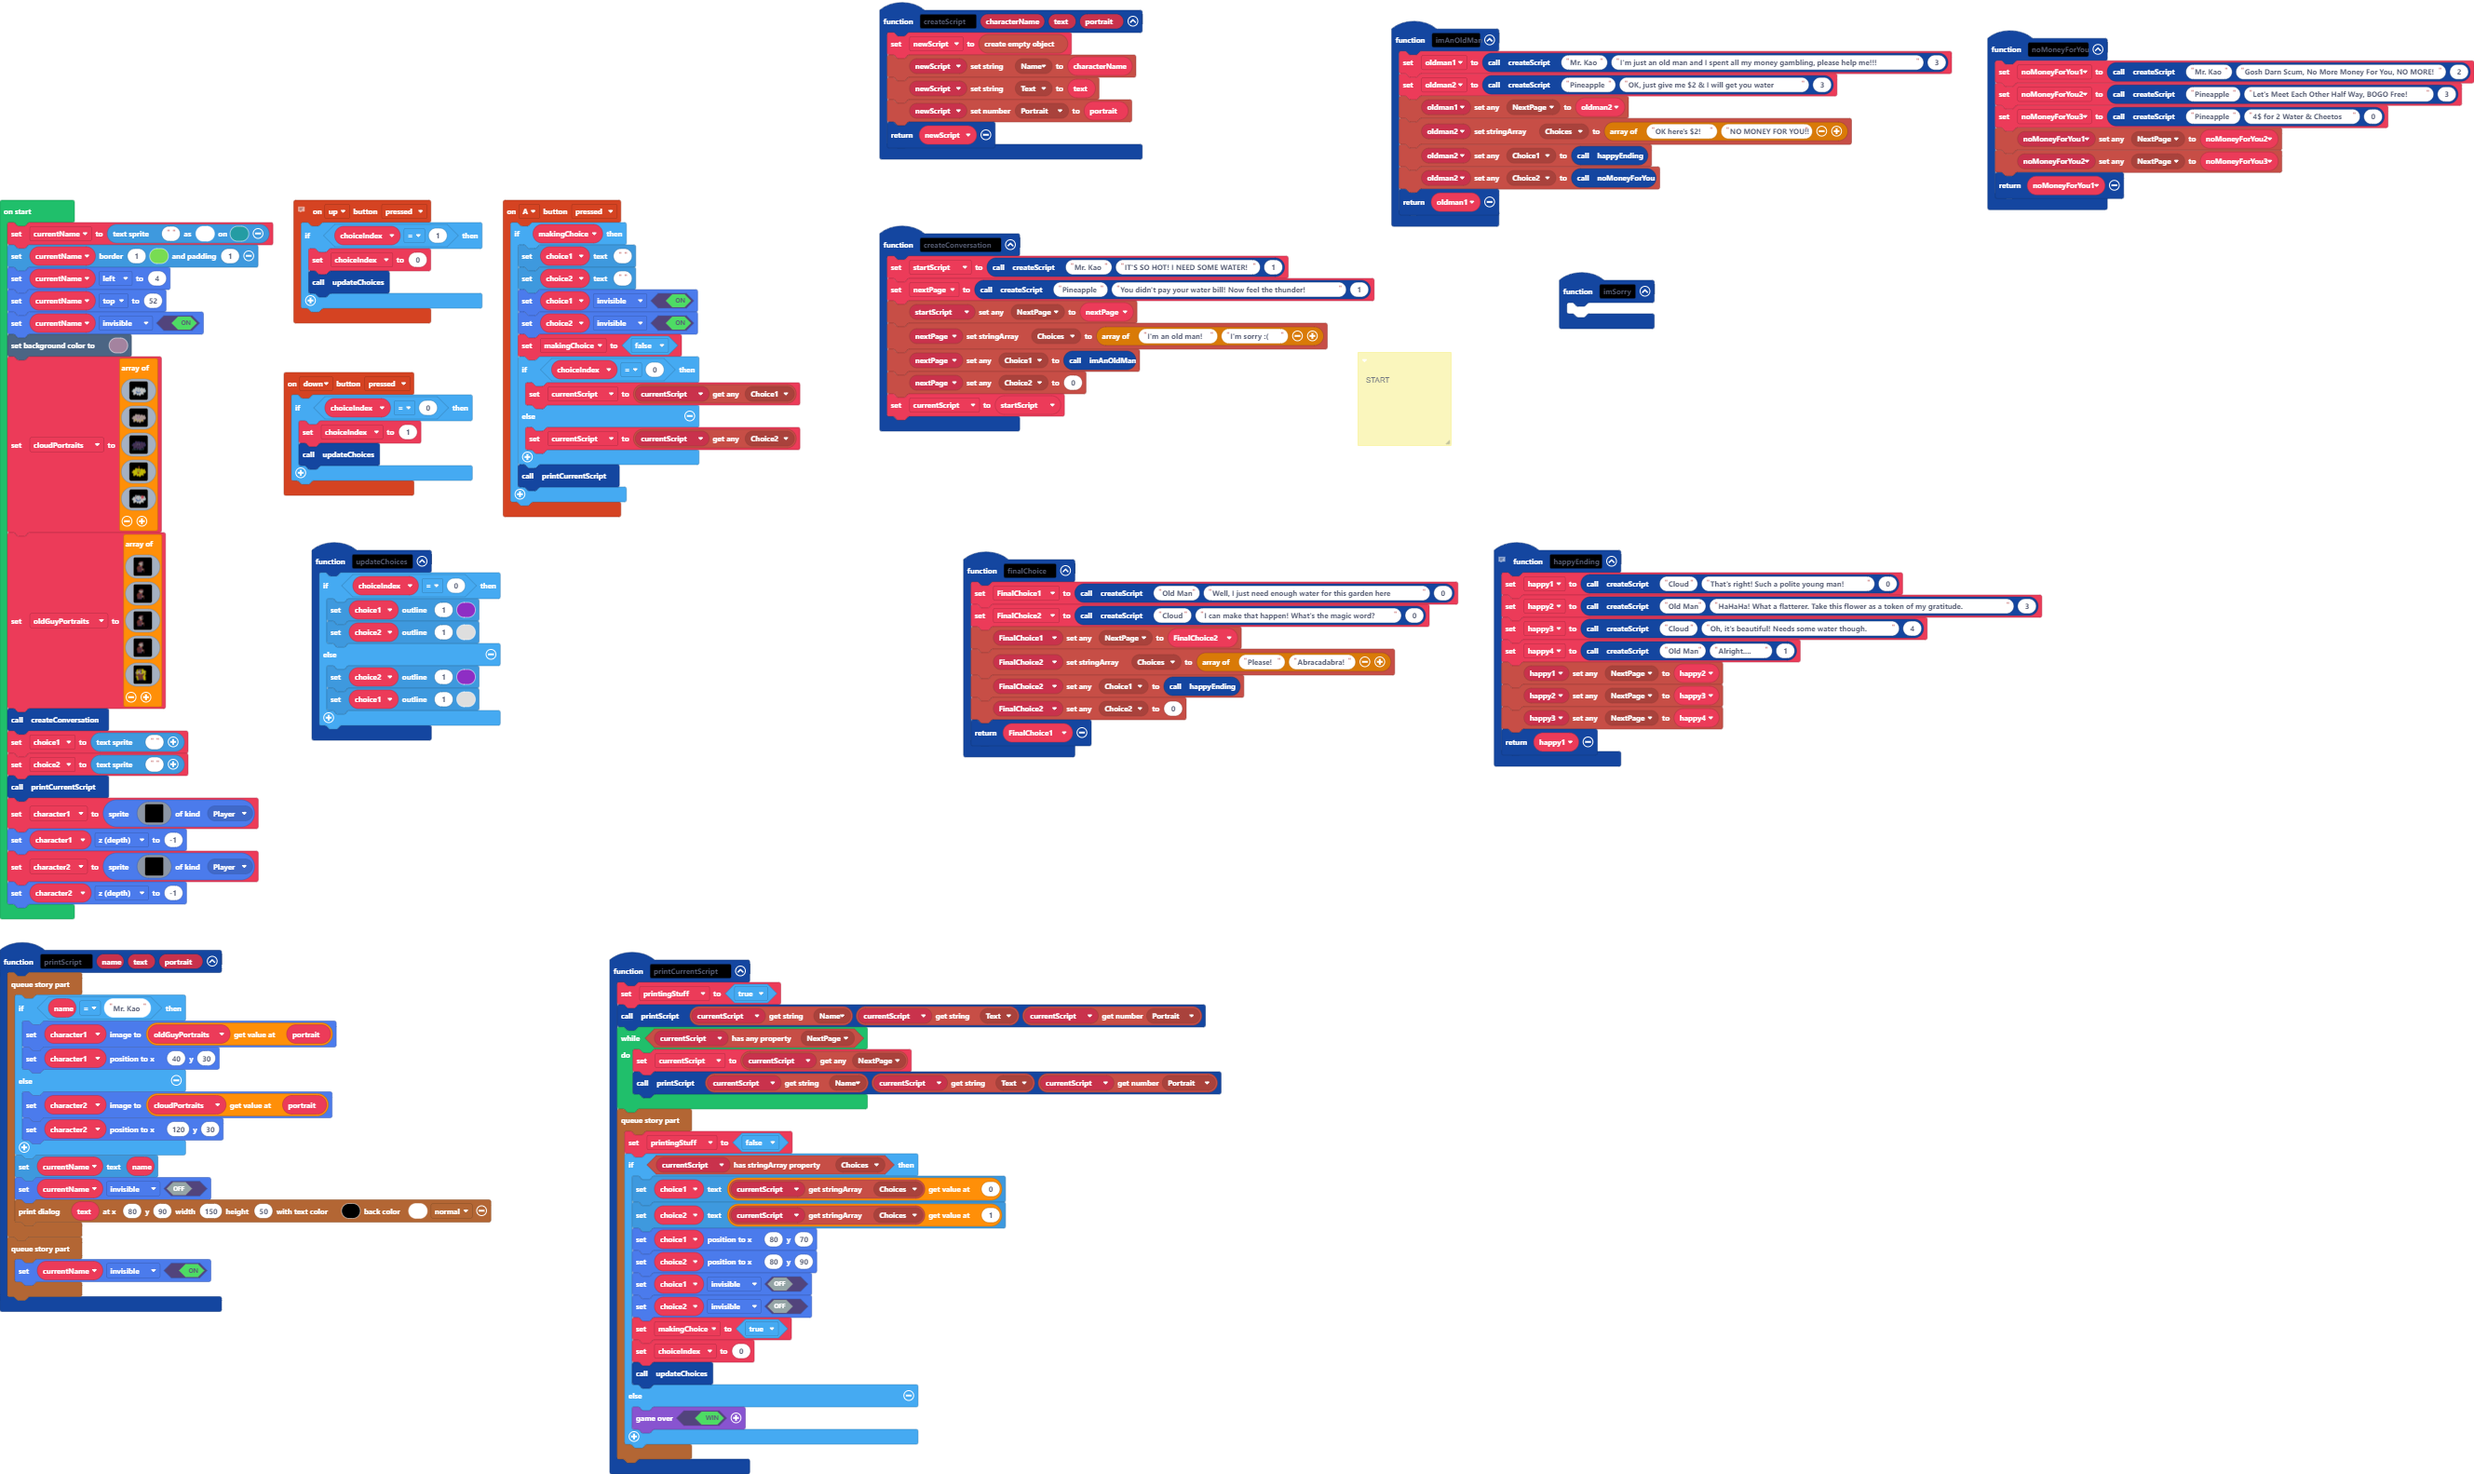
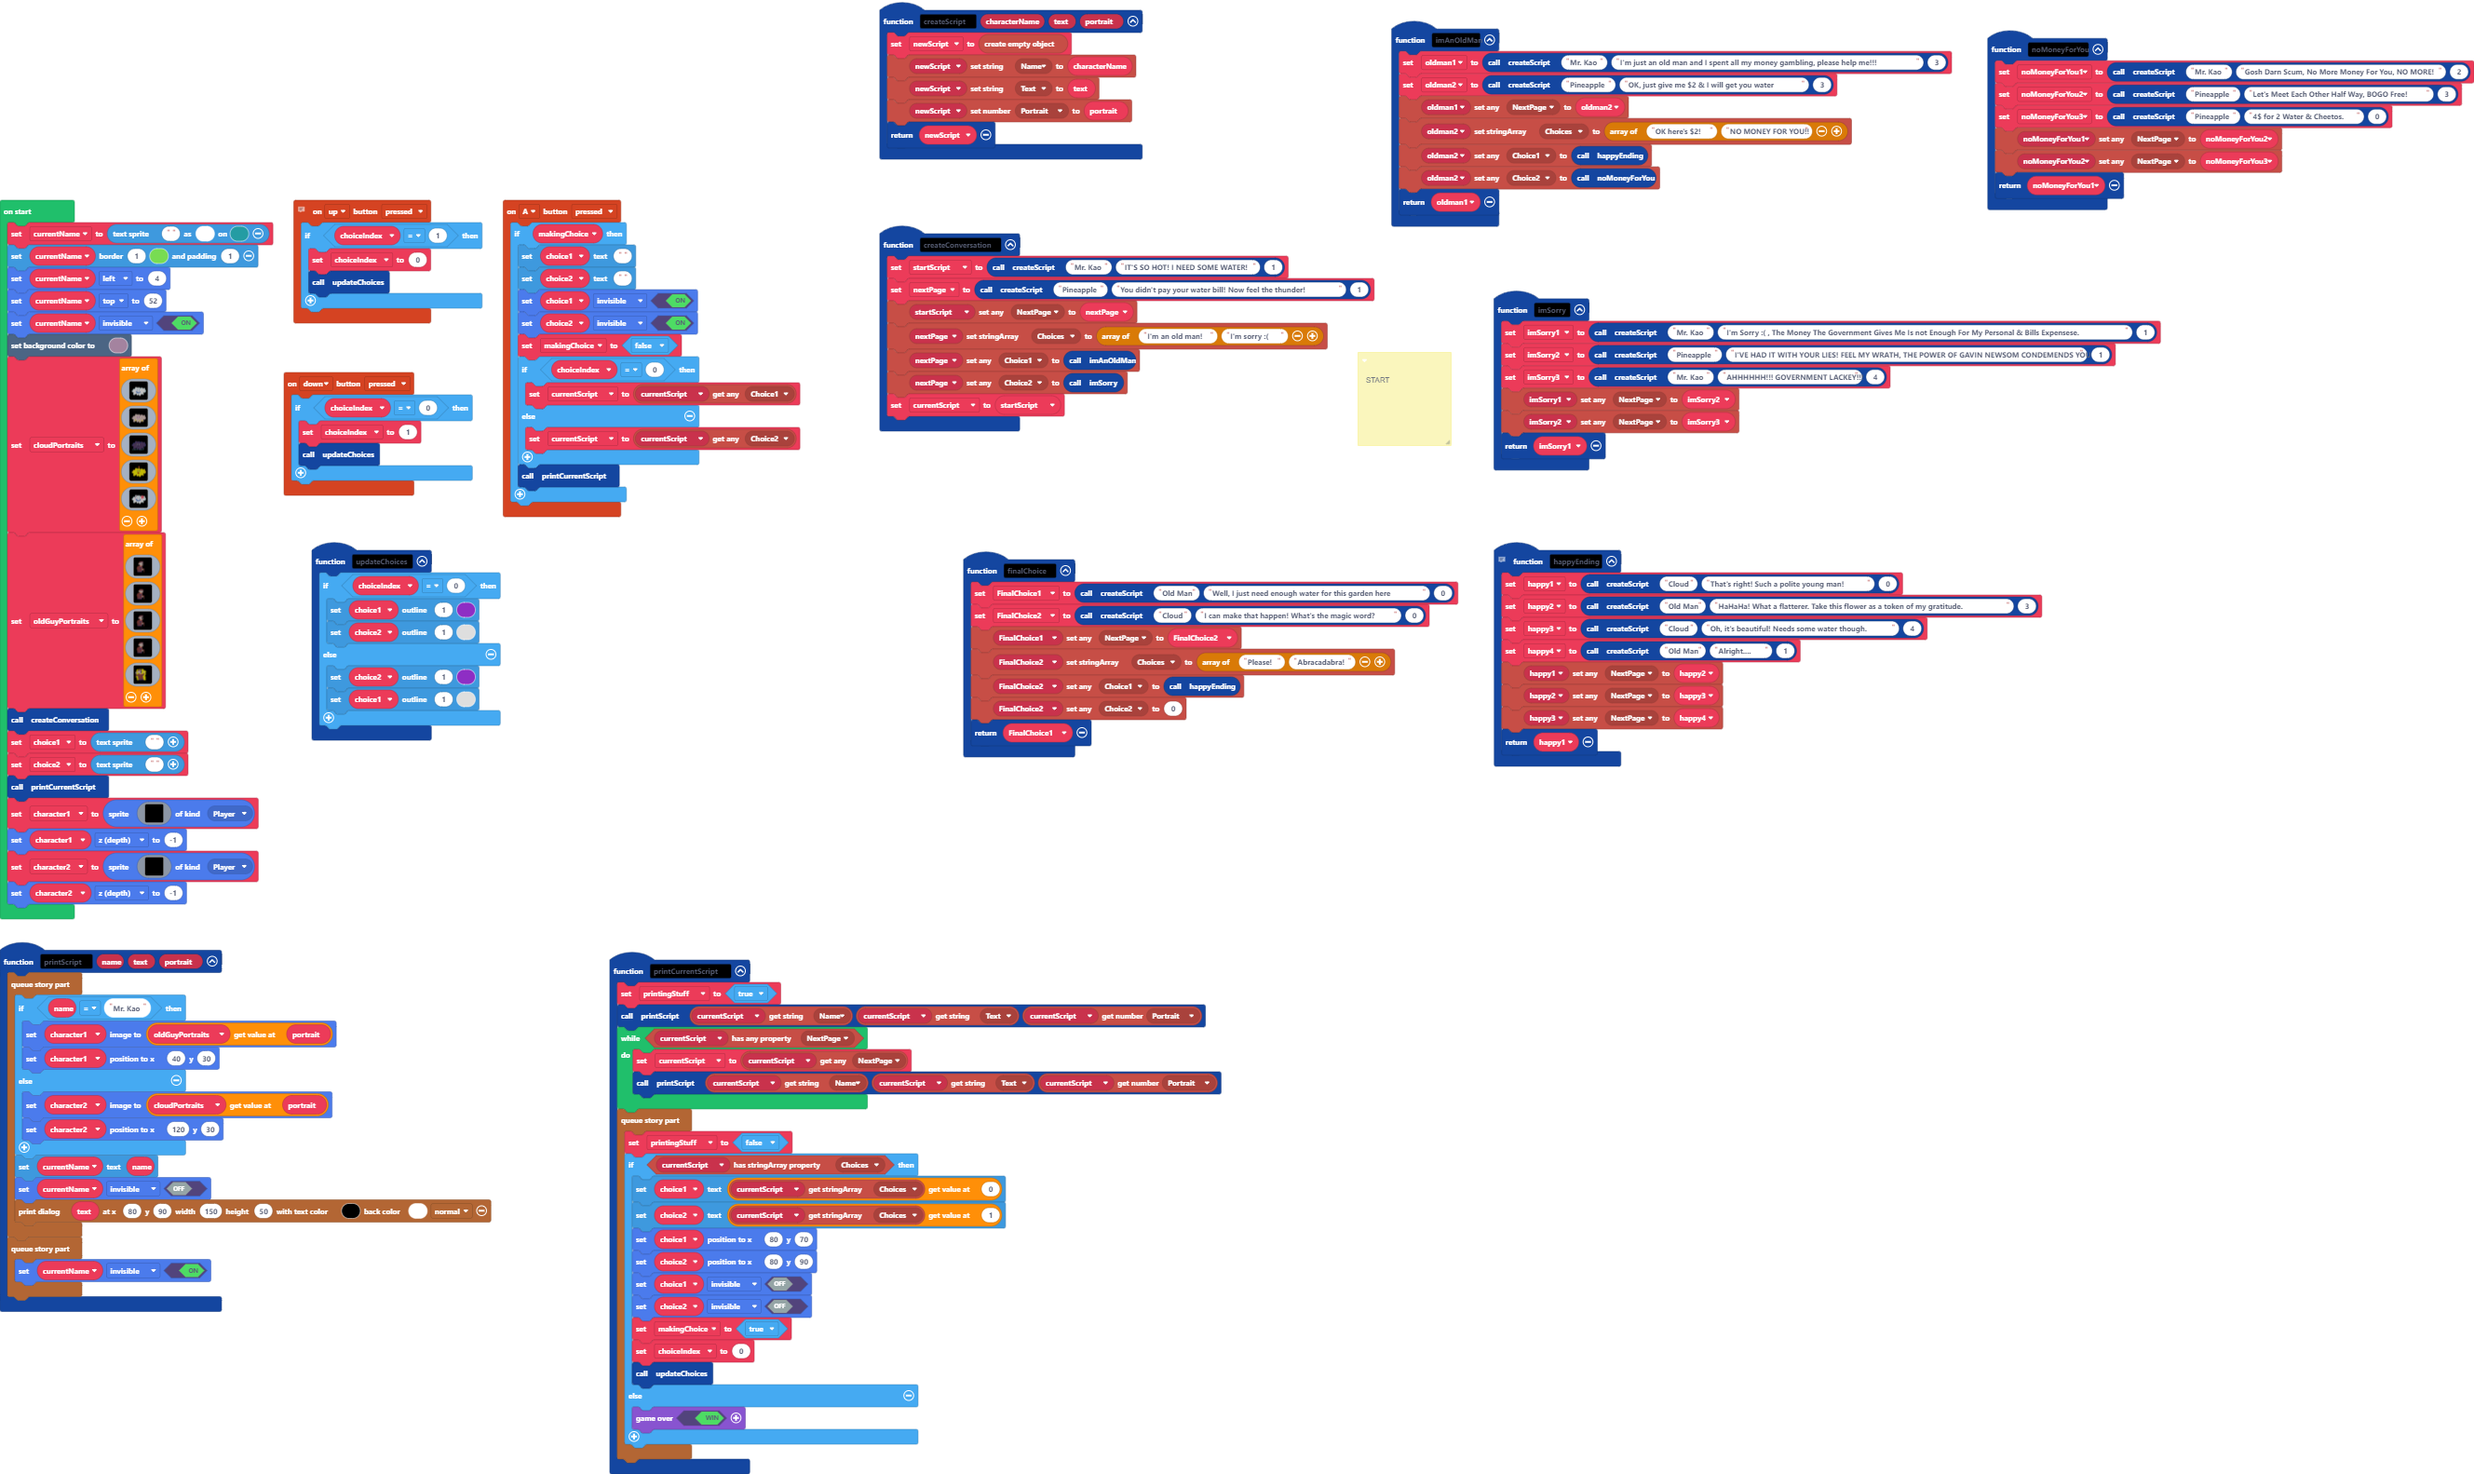
I'm Sorry Function Finished

Changed region(s): [[0.5935, 0.1857, 0.8747, 0.3405], [0.9371, 0.0619, 0.9684, 0.0929], [0.4373, 0.2476, 0.4686, 0.2786]]

diff --git a/main.ts b/main.ts
@@ -44,7 +44,12 @@ function happyEnding () {
     return happy1
 }
 function imSorry () {
-	
+    imSorry1 = createScript("Mr. Kao", "I'm Sorry :( , The Money The Government Gives Me Is not Enough For My Personal & Bills Expensese.", 1)
+    imSorry2 = createScript("Pineapple", "I'VE HAD IT WITH YOUR LIES! FEEL MY WRATH, THE POWER OF GAVIN NEWSOM CONDEMENDS YOU!", 1)
+    imSorry3 = createScript("Mr. Kao", "AHHHHHH!!! GOVERNMENT LACKEY!!!", 4)
+    blockObject.setAnyProperty(imSorry1, AnyProp.NextPage, imSorry2)
+    blockObject.setAnyProperty(imSorry2, AnyProp.NextPage, imSorry3)
+    return imSorry1
 }
 // microsoft/arcade-block-objects
 // 
@@ -64,7 +69,7 @@ function createConversation () {
     blockObject.setAnyProperty(startScript, AnyProp.NextPage, nextPage)
     blockObject.setStringArrayProperty(nextPage, StrArrayProp.Choices, ["I'm an old man!", "I'm sorry :("])
     blockObject.setAnyProperty(nextPage, AnyProp.Choice1, imAnOldMan())
-    blockObject.setAnyProperty(nextPage, AnyProp.Choice2, 0)
+    blockObject.setAnyProperty(nextPage, AnyProp.Choice2, imSorry())
     currentScript = startScript
 }
 function printScript (name: string, text: string, portrait: number) {
@@ -102,7 +107,7 @@ controller.A.onEvent(ControllerButtonEvent.Pressed, function () {
 function noMoneyForYou () {
     noMoneyForYou1 = createScript("Mr. Kao", "Gosh Darn Scum, No More Money For You, NO MORE!", 2)
     noMoneyForYou2 = createScript("Pineapple", "Let's Meet Each Other Half Way, BOGO Free!", 3)
-    noMoneyForYou3 = createScript("Pineapple", "4$ for 2 Water & Cheetos", 0)
+    noMoneyForYou3 = createScript("Pineapple", "4$ for 2 Water & Cheetos.", 0)
     blockObject.setAnyProperty(noMoneyForYou1, AnyProp.NextPage, noMoneyForYou2)
     blockObject.setAnyProperty(noMoneyForYou2, AnyProp.NextPage, noMoneyForYou3)
     return noMoneyForYou1
@@ -185,6 +190,9 @@ let currentScript: blockObject.BlockObject = null
 let nextPage: blockObject.BlockObject = null
 let startScript: blockObject.BlockObject = null
 let choiceIndex = 0
+let imSorry3: blockObject.BlockObject = null
+let imSorry2: blockObject.BlockObject = null
+let imSorry1: blockObject.BlockObject = null
 let happy4: blockObject.BlockObject = null
 let happy3: blockObject.BlockObject = null
 let happy2: blockObject.BlockObject = null
